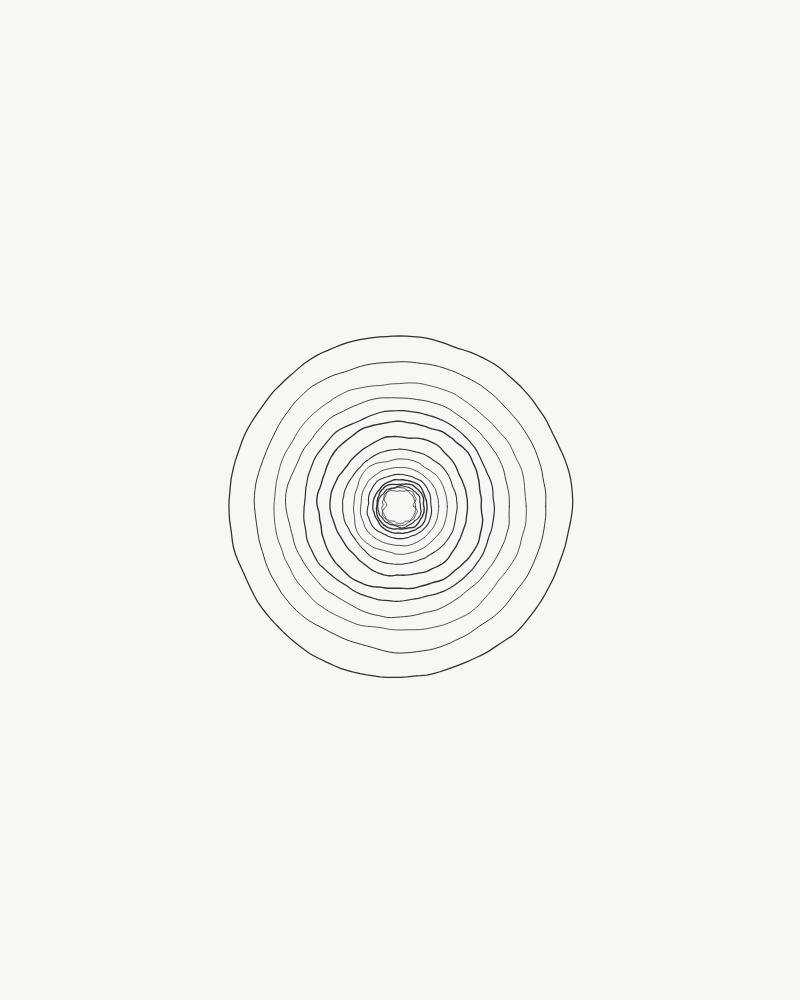
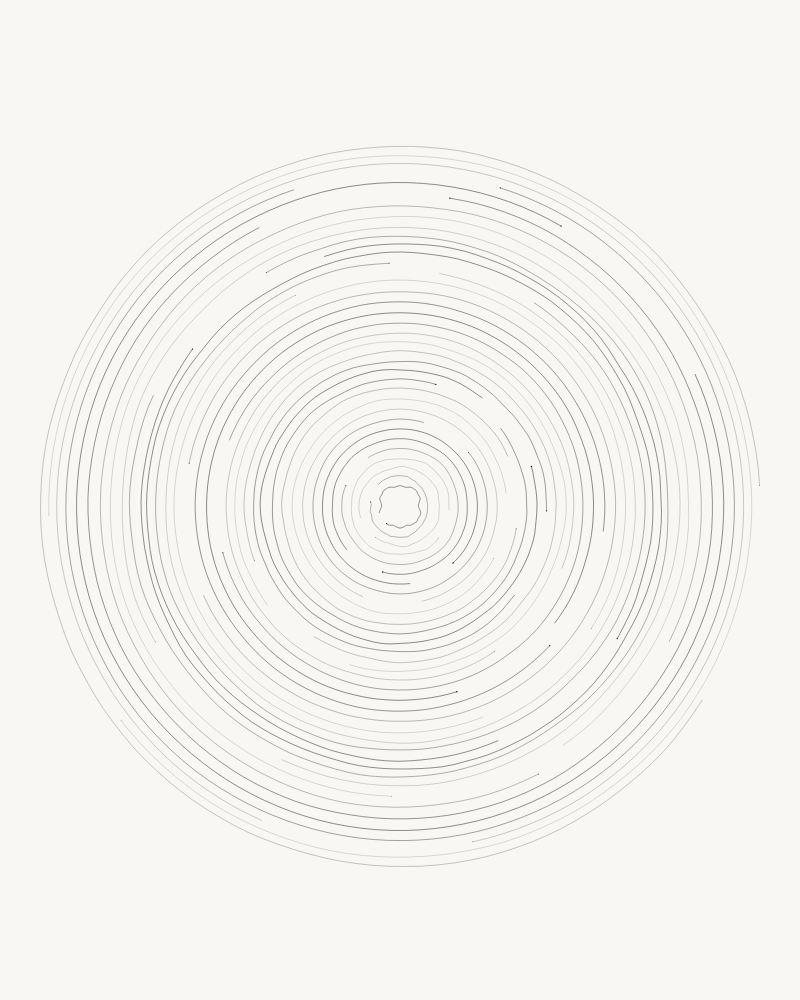
artwork: refine AG24: Concentric Drift Study

diff --git a/projects/2026-03-16-concentric-drift-study/index.html b/projects/2026-03-16-concentric-drift-study/index.html
@@ -12,23 +12,18 @@
     <script>
         let rings = [];
         let trails = [];
-        let strands = [];
-        let driftX, driftY;
         let pColor, sColor, aColor;
-        let gPhase = 1;
-        let lastStrandTime = 0;
         let lastTrailTime = 0;
-        const numRings = 16;
-        const ptsPerRing = 160;
+        
+        // Increased detail: more rings, closer together
+        const numRings = 36;
+        const ptsPerRing = 140;
 
         function setup() {
             createCanvas(windowWidth, windowHeight);
             pColor = color('#1a1a1c');
             sColor = color('#2d2d30');
             aColor = color('#0a0a0d');
-            
-            driftX = width / 2;
-            driftY = height / 2;
             
             for (let i = 0; i < numRings; i++) {
                 rings.push(new ContourRing(i, numRings));
@@ -39,132 +34,117 @@
         function draw() {
             background('#f8f7f4');
             let t = millis() / 1000;
-            let cycle = t % 120;
             
-            let targetX = width / 2;
-            let targetY = height / 2;
-            let driftSpeed = 0;
-            
-            // Phase Logic
-            if (cycle < 30) {
-                gPhase = 1;
-                driftSpeed = 0;
-            } else if (cycle < 75) {
-                gPhase = 2;
-                targetX = width * 0.65;
-                targetY = height * 0.35;
-                driftSpeed = 0.015;
-            } else {
-                gPhase = 3;
-                targetX = width * 0.38;
-                targetY = height * 0.62;
-                let phaseProgress = (cycle - 75) / 45;
-                driftSpeed = 0.02 * (0.5 - 0.5 * cos(phaseProgress * TWO_PI)); // Accel/Decel
+            // Locked center position
+            let cx = width / 2;
+            let cy = height / 2;
+
+            // 1. Calculate and update next frame states for all rings
+            for (let r of rings) {
+                r.update(t, cx, cy, numRings);
             }
 
-            // Apply Drift & Micro-wobble
-            driftX = lerp(driftX, targetX, driftSpeed || 0.001);
-            driftY = lerp(driftY, targetY, driftSpeed || 0.001);
-            
-            let wobbleX = gPhase > 1 ? (noise(t * 0.4) - 0.5) * 4 : 0;
-            let wobbleY = gPhase > 1 ? (noise(t * 0.4 + 100) - 0.5) * 4 : 0;
-            let cx = driftX + wobbleX;
-            let cy = driftY + wobbleY;
-
-            // Manage Ghost Trails
-            if (gPhase > 1 && t - lastTrailTime > 0.2) {
-                let currentPts = rings.map(r => r.getVertices(t, cx, cy));
+            // 2. Capture ghost trail snapshot periodically
+            if (t - lastTrailTime > 0.25) {
+                // Deep copy vertices to freeze them in time
+                let currentPts = rings.map(r => r.cachedPts.map(p => ({x: p.x, y: p.y})));
                 trails.push(new GhostTrail(currentPts, t));
                 lastTrailTime = t;
             }
 
+            // 3. Draw faint shadow trails first (in the background)
             for (let i = trails.length - 1; i >= 0; i--) {
                 if (trails[i].updateAndDraw(t)) trails.splice(i, 1);
             }
 
-            // Manage Disruption Strands
-            let strandInterval = gPhase === 2 ? random(18, 25) : random(12, 15);
-            if (gPhase > 1 && t - lastStrandTime > strandInterval) {
-                let numStrands = gPhase === 2 ? 4 : floor(random(6, 8));
-                for (let i = 0; i < numStrands; i++) {
-                    strands.push(new DisruptionStrand(t, cx, cy, gPhase));
-                }
-                lastStrandTime = t;
-            }
-
-            for (let i = strands.length - 1; i >= 0; i--) {
-                if (strands[i].updateAndDraw(t)) strands.splice(i, 1);
-            }
-
-            // Update & Draw Rings
+            // 4. Draw the active rings on top
             for (let r of rings) {
-                r.updateAndDraw(t, cx, cy);
+                r.draw();
             }
         }
 
         class ContourRing {
             constructor(idx, total) {
                 this.idx = idx;
-                this.baseR = 15 * pow(1.18, idx);
                 this.nOff = idx * 3.7;
-                this.angle = 0;
-                let dir = idx < total / 2 ? 1 : -1;
-                this.baseSpeed = dir * map(idx, 0, total - 1, 9, 4.8); // deg/sec
-                this.lastShudder = -999;
+                this.angle = random(TWO_PI);
+                
+                // Each snake has a permanent direction of travel
+                this.dir = random() > 0.5 ? 1 : -1;
+                
+                // Independent pacing
+                this.currentSpeed = random(10, 30);
+                this.targetSpeed = this.currentSpeed;
+                this.nextShiftTime = random(2, 6);
+                
                 this.cachedPts = [];
+                this.sw = 0.5;
             }
 
-            getVertices(t, cx, cy) {
-                return this.cachedPts; // Return pre-calculated points for trails
-            }
-
-            updateAndDraw(t, cx, cy) {
-                this.nOff += 0.003 * 60 * 0.016; // Approx per-frame increment
+            update(t, cx, cy, totalRings) {
+                let maxR = Math.min(width, height) * 0.45;
+                this.baseR = map(this.idx, 0, totalRings - 1, 20, maxR);
                 
-                if (random() < 0.001 * 60 * 0.016) this.lastShudder = t;
+                // Random shift to a new pace
+                if (t > this.nextShiftTime) {
+                    this.targetSpeed = random(5, 45);
+                    this.nextShiftTime = t + random(4, 9);
+                }
                 
-                let shudderMult = 1;
-                let timeSinceShudder = t - this.lastShudder;
-                if (timeSinceShudder < 0.13) shudderMult = 2;
-                else if (timeSinceShudder < 0.8) shudderMult = 1 + exp(-timeSinceShudder * 6);
-
-                let ampBase = 6, ampVar = 3, rotMult = 1;
-                if (gPhase === 2) { ampBase = 9; ampVar = 5; rotMult = 1.5; }
-                if (gPhase === 3) { ampBase = 13; ampVar = 7; rotMult = 1.2; }
-
-                let noiseAmp = (ampBase + sin(t * TWO_PI / 6 + this.idx * 0.4) * ampVar) * shudderMult;
-                let scaleOsc = 1.0 + sin(t * TWO_PI / 9 + this.idx * 0.6) * 0.055;
+                // Very softly easing the overall tempo
+                this.currentSpeed = lerp(this.currentSpeed, this.targetSpeed, 0.008);
                 
-                let swBase = 1.1;
-                let sw = swBase + sin(t * TWO_PI / 4 + this.idx) * 0.3;
-                if (gPhase === 3 && random() < 0.08) sw += random(-0.4, 0.6);
-
-                let currentSpeed = this.baseSpeed * rotMult;
-                if (gPhase === 3 && this.idx % 3 === 0 && (t * 10) % 20 < 2) currentSpeed = 0;
-                this.angle += radians(currentSpeed * 0.016); // Apply rotation
-
+                // Move snake along its path
+                this.angle += radians(this.currentSpeed * this.dir * 0.016);
+                this.nOff += 0.002; // Slow terrain shift
+                
                 this.cachedPts = [];
-                let noiseScale = gPhase === 3 ? 1.4 : 1.0;
-
-                push();
-                noFill();
-                stroke(red(pColor), green(pColor), blue(pColor), 230);
-                strokeWeight(sw);
-                beginShape();
-                for (let i = 0; i < ptsPerRing; i++) {
+                let noiseAmp = 3 + sin(t * TWO_PI / 12 + this.idx * 0.5) * 2;
+                let scaleOsc = 1.0 + sin(t * TWO_PI / 15 + this.idx * 0.6) * 0.01;
+                
+                // Extremely thin and delicate line weights
+                this.sw = 0.35 + sin(t * TWO_PI / 8 + this.idx) * 0.2;
+                
+                // Snake length is 90% of the full circle
+                let snakePortion = 0.9;
+                let steps = floor(ptsPerRing * snakePortion);
+                
+                for (let i = 0; i <= steps; i++) {
                     let a = (i / ptsPerRing) * TWO_PI;
-                    let nx = cos(a) * 1.5 * noiseScale + this.nOff;
-                    let ny = sin(a) * 1.5 * noiseScale + t * 0.05;
+                    let absA = a + this.angle;
+                    
+                    let nx = cos(absA) * 1.5 + this.nOff;
+                    let ny = sin(absA) * 1.5 + t * 0.02;
                     let disp = (noise(nx, ny, this.idx * 0.3) - 0.5) * 2 * noiseAmp;
                     
                     let r = this.baseR * scaleOsc + disp;
-                    let px = cx + cos(a + this.angle) * r;
-                    let py = cy + sin(a + this.angle) * r;
+                    let px = cx + cos(absA) * r;
+                    let py = cy + sin(absA) * r;
                     
-                    vertex(px, py);
                     this.cachedPts.push({x: px, y: py});
                 }
-                endShape(CLOSE);
+            }
+
+            draw() {
+                push();
+                noFill();
+                stroke(red(pColor), green(pColor), blue(pColor), 230);
+                strokeWeight(this.sw);
+                
+                beginShape();
+                for (let p of this.cachedPts) {
+                    vertex(p.x, p.y);
+                }
+                endShape(); // Intentional unclosed shape for snake look
+                
+                // Tiny accent at the "head" of the moving snake
+                let headIdx = this.dir > 0 ? this.cachedPts.length - 1 : 0;
+                let p = this.cachedPts[headIdx];
+                if (p) {
+                    fill(aColor);
+                    noStroke();
+                    ellipse(p.x, p.y, this.sw * 2.5);
+                }
                 pop();
             }
         }
@@ -177,71 +157,27 @@
 
             updateAndDraw(t) {
                 let age = t - this.birth;
-                if (age > 9) return true;
+                if (age > 4.5) return true; // Trail expires after 4.5s
 
-                let maxAlpha = gPhase === 3 ? 20 : 15;
-                let alpha = map(age, 0, 9, maxAlpha, 0);
+                let maxAlpha = 22; // Faint shadow markings
+                let alpha = map(age, 0, 4.5, maxAlpha, 0);
 
                 noFill();
                 stroke(red(sColor), green(sColor), blue(sColor), alpha);
-                strokeWeight(0.8);
+                strokeWeight(0.2); // Extremely delicate shadows
                 
                 for (let pts of this.shapes) {
                     beginShape();
                     for (let p of pts) vertex(p.x, p.y);
-                    endShape(CLOSE);
+                    endShape();
                 }
-                return false;
-            }
-        }
-
-        class DisruptionStrand {
-            constructor(t, cx, cy, phase) {
-                this.birth = t;
-                let a = phase === 2 ? radians(random(25, 65)) : radians(random(60, 85));
-                if (random() > 0.5) a += PI;
-                
-                let len = random(120, 300);
-                this.sx = cx + random(-50, 50);
-                this.sy = cy + random(-50, 50);
-                this.ex = this.sx + cos(a) * len;
-                this.ey = this.sy + sin(a) * len;
-
-                let perp = a + HALF_PI;
-                let cpDist = random(40, 100);
-                this.cx1 = this.sx + cos(a) * len * 0.3 + cos(perp) * cpDist * random(-1, 1);
-                this.cy1 = this.sy + sin(a) * len * 0.3 + sin(perp) * cpDist * random(-1, 1);
-                this.cx2 = this.sx + cos(a) * len * 0.7 + cos(perp) * cpDist * random(-1, 1);
-                this.cy2 = this.sy + sin(a) * len * 0.7 + sin(perp) * cpDist * random(-1, 1);
-                
-                this.sw = random(0.3, 0.5);
-                this.maxA = phase === 2 ? random(60, 90) : random(80, 110);
-                this.hold = phase === 2 ? 1.0 : 1.5;
-            }
-
-            updateAndDraw(t) {
-                let age = t - this.birth;
-                let fade = 1.5;
-                if (age > this.hold + fade) return true;
-
-                let alpha = this.maxA;
-                if (age > this.hold) {
-                    alpha = map(age, this.hold, this.hold + fade, this.maxA, 0);
-                }
-
-                noFill();
-                stroke(red(aColor), green(aColor), blue(aColor), alpha);
-                strokeWeight(this.sw);
-                bezier(this.sx, this.sy, this.cx1, this.cy1, this.cx2, this.cy2, this.ex, this.ey);
-                return false;
+                return false; // Keep alive
             }
         }
 
         function windowResized() {
             resizeCanvas(windowWidth, windowHeight);
-            driftX = width / 2;
-            driftY = height / 2;
-            trails = [];
+            trails = []; // Clear trails to prevent off-center smudging during resize
         }
     </script>
 </head>
